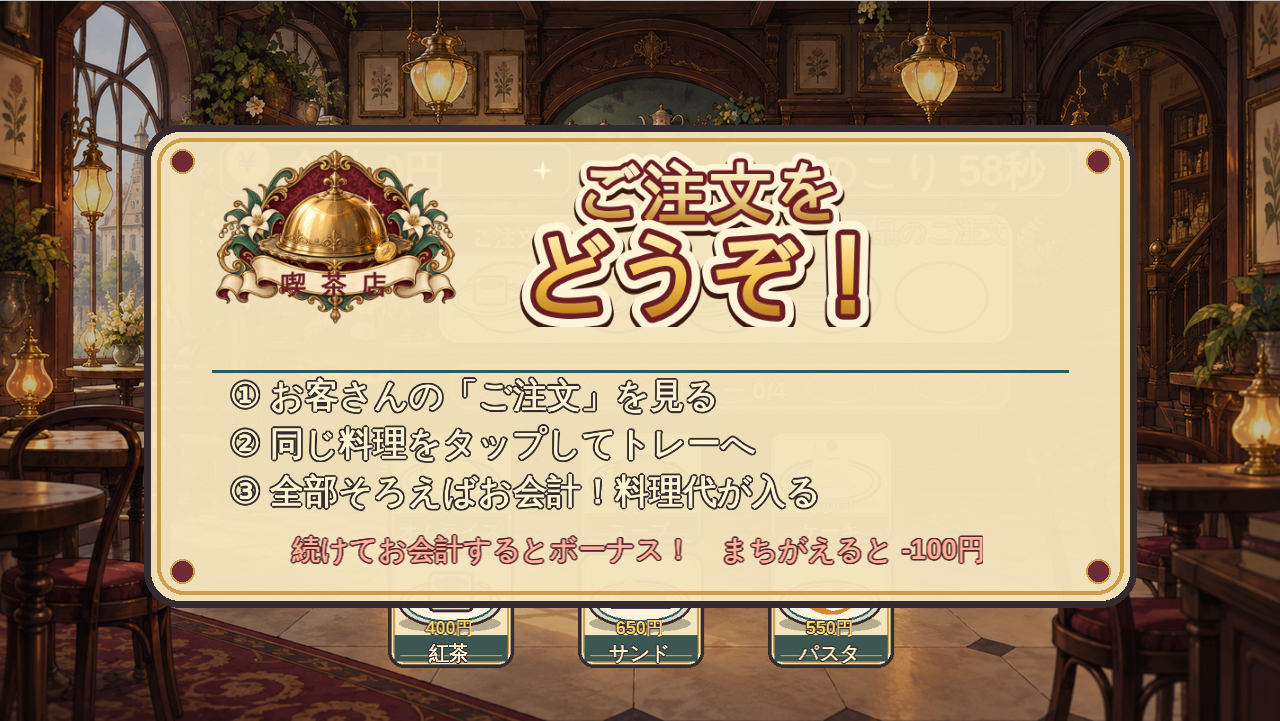
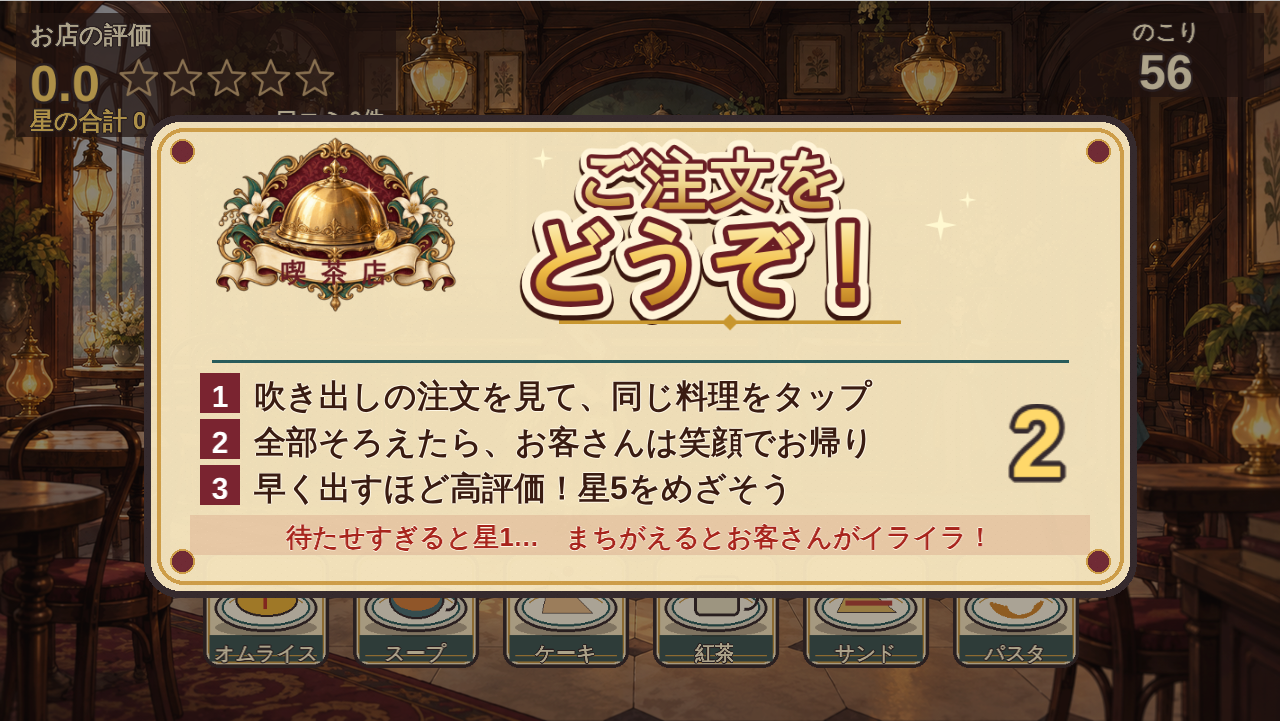
ご注文をどうぞ!: 説明画面の文字をこげ茶に、番号を札にして読みやすく
Claude-Session: https://claude.ai/code/session_01CgTKhAavcAqfcCmenjbN3T

diff --git a/gochumon/src/main.ts b/gochumon/src/main.ts
@@ -427,10 +427,29 @@ export function main(param: GameMainParameterObject): void {
 		intro.append(new g.FilledRect({ scene, cssColor: "rgba(20,12,10,0.35)", width: WIDTH, height: HEIGHT }));
 		sprite("intro_panel", 140, 110, intro);
 		sprite("logo", 190, 116, intro, 0.9);
-		label("① 吹き出しの注文を見て、同じ料理をタップ", mainFont, 32, 200, 356, intro);
-		label("② 全部そろえたら、お客さんは笑顔でお帰り", mainFont, 32, 200, 402, intro);
-		label("③ 早く出すほど高評価！星5をめざそう", mainFont, 32, 200, 448, intro);
-		label("待たせすぎると星1…　まちがえるとお客さんがイライラ！", redFont, 26, WIDTH / 2, 510, intro, 0.5);
+		// 紙の色(クリーム)の上でもはっきり読めるよう、こげ茶の文字と、えんじ色の番号札にする
+		const inkFont = new g.DynamicFont({
+			game: g.game, fontFamily: "sans-serif", fontWeight: "bold", size: 64,
+			fontColor: "#3a1c12", strokeColor: "#fff8e6", strokeWidth: 4
+		});
+		const warnFont = new g.DynamicFont({
+			game: g.game, fontFamily: "sans-serif", fontWeight: "bold", size: 64,
+			fontColor: "#a8241c", strokeColor: "#fff8e6", strokeWidth: 4
+		});
+		const numFont = new g.DynamicFont({ game: g.game, fontFamily: "sans-serif", fontWeight: "bold", size: 64, fontColor: "#ffffff" });
+		const rules = [
+			"吹き出しの注文を見て、同じ料理をタップ",
+			"全部そろえたら、お客さんは笑顔でお帰り",
+			"早く出すほど高評価！星5をめざそう"
+		];
+		rules.forEach((text, k) => {
+			const y = 372 + k * 46;
+			intro.append(new g.FilledRect({ scene, cssColor: "#7a2430", x: 200, y: y, width: 40, height: 40 }));
+			label(String(k + 1), numFont, 30, 220, y + 4, intro, 0.5);
+			label(text, inkFont, 32, 254, y + 2, intro);
+		});
+		intro.append(new g.FilledRect({ scene, cssColor: "rgba(168,36,28,0.12)", x: 190, y: 514, width: 900, height: 40 }));
+		label("待たせすぎると星1…　まちがえるとお客さんがイライラ！", warnFont, 26, WIDTH / 2, 519, intro, 0.5);
 		const countLabel = label("", goldFont, 96, 1040, 380, intro, 0.5);
 
 		const bgm = scene.asset.getAudioById("bgm").play();
